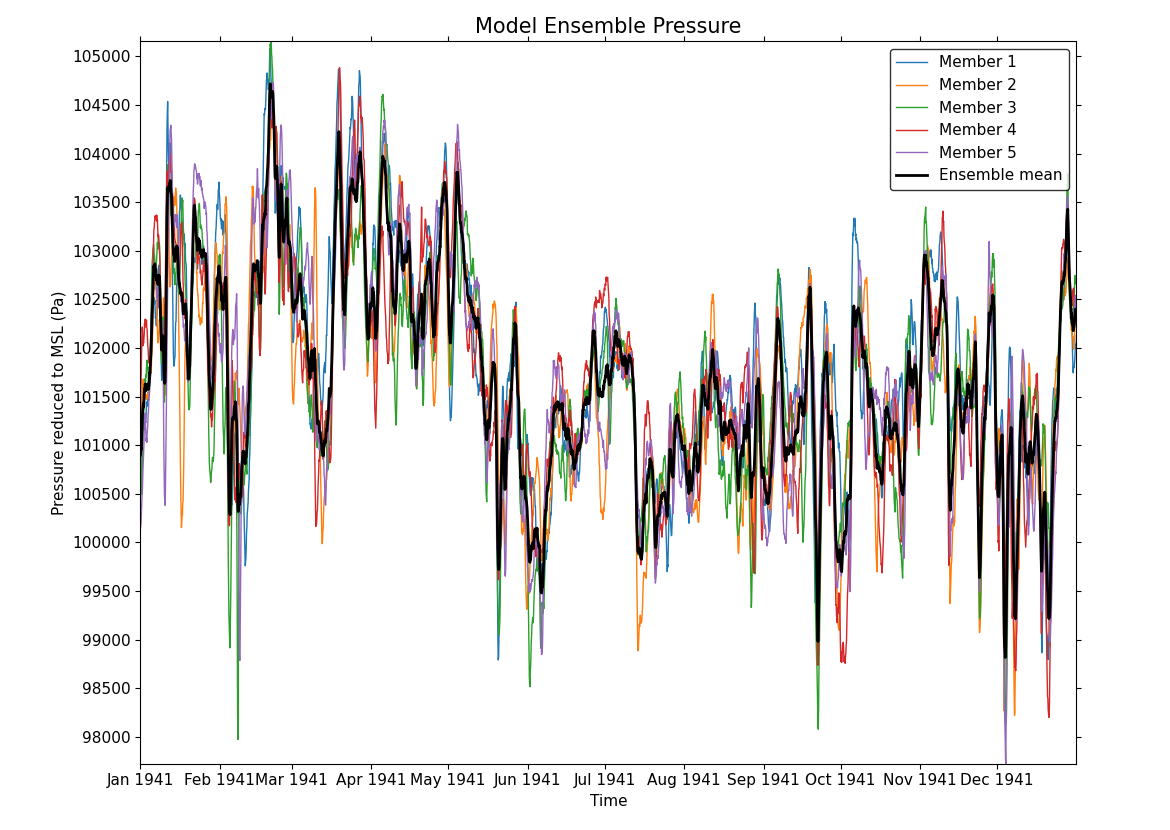
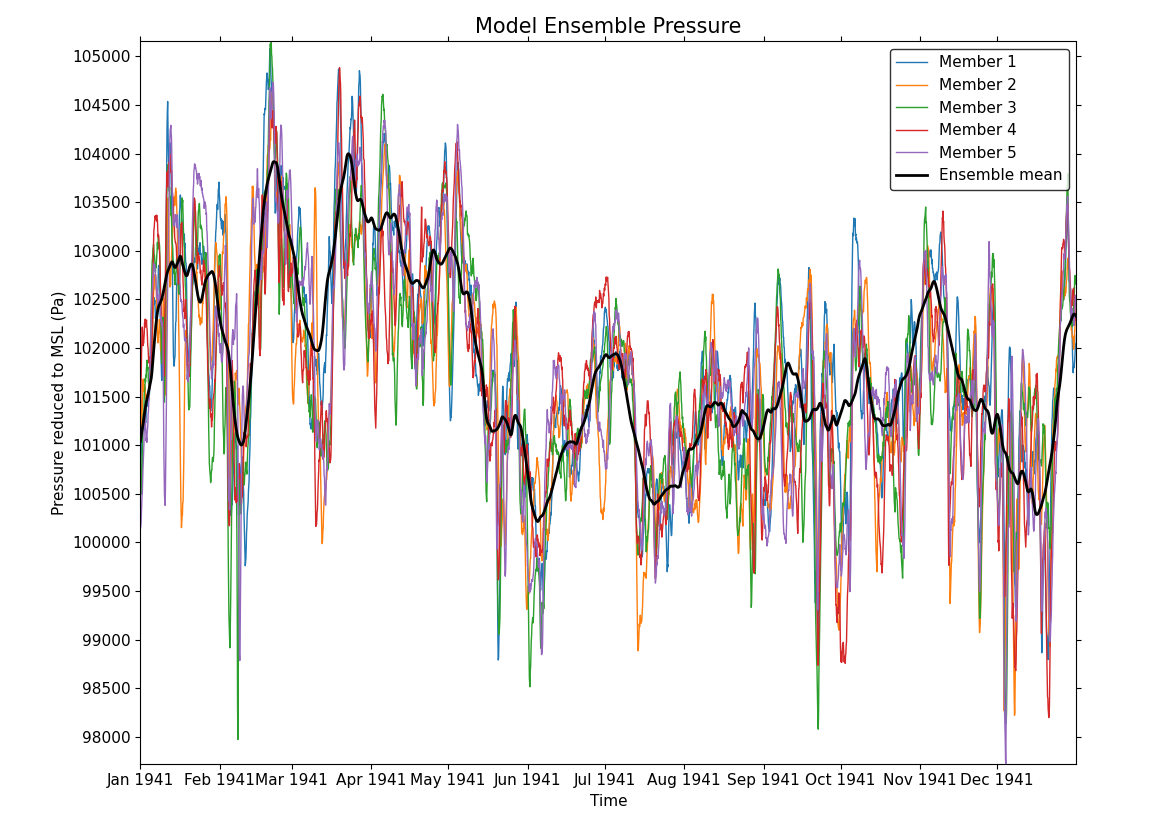
Updated ensemble plot files

Changed region(s): [[0.1231, 0.0904, 0.9231, 0.7831], [0.8923, 0.2711, 0.9231, 0.4518]]

diff --git a/docs/recipes/plot_7_recipe.html b/docs/recipes/plot_7_recipe.html
@@ -246,8 +246,8 @@ Auxiliary coords: id%realization(id%realization(5)) = [1, ..., 5]
  &#39;domainaxis3&#39;: &lt;CF DomainAxis: size(5)&gt;}
 </pre></div>
 </div>
-<p>6. Loop over the realizations in the ensemble using the <em>range</em> function and the <em>domain_axis</em> to determine the size of the realization dimension. For each realization, extract a subspace of the ensemble using the <em>subspace</em> method and the <code class="docutils literal notranslate"><span class="pre">'id%realization'</span></code> keyword argument along specific latitude and longitude and plot the realizations from the 4D field using <a class="reference external" href="http://ajheaps.github.io/cf-plot/lineplot.html">cfplot.lineplot</a>. The <em>squeeze</em> method removes any dimensions of size 1 from the field to produce a 2D field.
-The ensemble mean is plotted similarly by using the <em>collapse</em> method to take the mean along the <code class="docutils literal notranslate"><span class="pre">'realization'</span></code> dimension of the ensemble.</p>
+<p>6. Loop over the realizations in the ensemble using the <em>range</em> function and the <em>domain_axis</em> to determine the size of the realization dimension. For each realization, extract a subspace of the ensemble using the <em>subspace</em> method and the <code class="docutils literal notranslate"><span class="pre">'id%realization'</span></code> keyword argument along specific latitude and longitude and plot the realizations from the 4D field using <a class="reference external" href="http://ajheaps.github.io/cf-plot/lineplot.html">cfplot.lineplot</a>.
+A moving average of the ensemble along the time axis, with a window size of 90 (i.e., a 3-month moving average) is calculated using the <em>moving_window</em> method. The <code class="docutils literal notranslate"><span class="pre">mode='nearest'</span></code> parameter is used to specify that the padded data should be filled with the values of the nearest data point. The <em>squeeze</em> method removes any dimensions of size 1 from the field to produce a 2D field:</p>
 <div class="highlight-python notranslate"><div class="highlight"><pre><span></span><a href="https://ajheaps.github.io/cf-plot/gopen.html#cfplot.gopen" title="cfplot.gopen" class="sphx-glr-backref-module-cfplot sphx-glr-backref-type-py-function"><span class="n">cfp</span><span class="o">.</span><span class="n">gopen</span></a><span class="p">()</span>
 
 <span class="k">for</span> <a href="https://docs.python.org/3/library/functions.html#int" title="builtins.int" class="sphx-glr-backref-module-builtins sphx-glr-backref-type-py-class sphx-glr-backref-instance"><span class="n">realization</span></a> <span class="ow">in</span> <span class="nb">range</span><span class="p">(</span><span class="mi">1</span><span class="p">,</span> <a href="../method/cf.Field.domain_axis.html#cf.Field.domain_axis" title="cf.Field.domain_axis" class="sphx-glr-backref-module-cf sphx-glr-backref-type-py-method"><span class="n">ensemble</span><span class="o">.</span><span class="n">domain_axis</span></a><span class="p">(</span><span class="s1">&#39;id</span><span class="si">%r</span><span class="s1">ealization&#39;</span><span class="p">)</span><span class="o">.</span><span class="n">size</span> <span class="o">+</span> <span class="mi">1</span><span class="p">):</span>
@@ -257,14 +257,14 @@ The ensemble mean is plotted similarly by using the <em>collapse</em> method to 
         <span class="n">label</span><span class="o">=</span><span class="sa">f</span><span class="s1">&#39;Member </span><span class="si">{</span><a href="https://docs.python.org/3/library/functions.html#int" title="builtins.int" class="sphx-glr-backref-module-builtins sphx-glr-backref-type-py-class sphx-glr-backref-instance"><span class="n">realization</span></a><span class="si">}</span><span class="s1">&#39;</span><span class="p">,</span>
         <span class="n">linewidth</span><span class="o">=</span><span class="mf">1.0</span><span class="p">)</span>
 
-<a href="https://ajheaps.github.io/cf-plot/lineplot.html#cfplot.lineplot" title="cfplot.lineplot" class="sphx-glr-backref-module-cfplot sphx-glr-backref-type-py-function"><span class="n">cfp</span><span class="o">.</span><span class="n">lineplot</span></a><span class="p">(</span><a href="../method/cf.Field.collapse.html#cf.Field.collapse" title="cf.Field.collapse" class="sphx-glr-backref-module-cf sphx-glr-backref-type-py-method"><span class="n">ensemble</span><span class="o">.</span><span class="n">collapse</span></a><span class="p">(</span><span class="s1">&#39;mean&#39;</span><span class="p">,</span> <span class="s1">&#39;id</span><span class="si">%r</span><span class="s1">ealization&#39;</span><span class="p">)[:,</span> <span class="p">:,</span> <span class="mi">0</span><span class="p">,</span> <span class="mi">0</span><span class="p">]</span><span class="o">.</span><span class="n">squeeze</span><span class="p">(),</span>
+<a href="https://ajheaps.github.io/cf-plot/lineplot.html#cfplot.lineplot" title="cfplot.lineplot" class="sphx-glr-backref-module-cfplot sphx-glr-backref-type-py-function"><span class="n">cfp</span><span class="o">.</span><span class="n">lineplot</span></a><span class="p">(</span><a href="../method/cf.Field.moving_window.html#cf.Field.moving_window" title="cf.Field.moving_window" class="sphx-glr-backref-module-cf sphx-glr-backref-type-py-method"><span class="n">ensemble</span><span class="o">.</span><span class="n">moving_window</span></a><span class="p">(</span><span class="n">method</span><span class="o">=</span><span class="s1">&#39;mean&#39;</span><span class="p">,</span> <span class="n">window_size</span><span class="o">=</span><span class="mi">90</span><span class="p">,</span> <span class="n">axis</span><span class="o">=</span><span class="s1">&#39;T&#39;</span><span class="p">,</span> <span class="n">mode</span><span class="o">=</span><span class="s1">&#39;nearest&#39;</span><span class="p">)[</span><span class="mi">0</span><span class="p">,</span> <span class="p">:,</span> <span class="mi">0</span><span class="p">,</span> <span class="mi">0</span><span class="p">]</span><span class="o">.</span><span class="n">squeeze</span><span class="p">(),</span>
     <span class="n">label</span><span class="o">=</span><span class="s1">&#39;Ensemble mean&#39;</span><span class="p">,</span> <span class="n">linewidth</span><span class="o">=</span><span class="mf">2.0</span><span class="p">,</span> <span class="n">color</span><span class="o">=</span><span class="s1">&#39;black&#39;</span><span class="p">,</span>
     <span class="n">title</span><span class="o">=</span><span class="s1">&#39;Model Ensemble Pressure&#39;</span><span class="p">)</span>
 
 <a href="https://ajheaps.github.io/cf-plot/gclose.html#cfplot.gclose" title="cfplot.gclose" class="sphx-glr-backref-module-cfplot sphx-glr-backref-type-py-function"><span class="n">cfp</span><span class="o">.</span><span class="n">gclose</span></a><span class="p">()</span>
 </pre></div>
 </div>
-<img src="../_images/sphx_glr_plot_7_recipe_001.png" srcset="../_images/sphx_glr_plot_7_recipe_001.png" alt="Model Ensemble Pressure" class = "sphx-glr-single-img"/><p class="sphx-glr-timing"><strong>Total running time of the script:</strong> ( 0 minutes  44.351 seconds)</p>
+<img src="../_images/sphx_glr_plot_7_recipe_001.png" srcset="../_images/sphx_glr_plot_7_recipe_001.png" alt="Model Ensemble Pressure" class = "sphx-glr-single-img"/><p class="sphx-glr-timing"><strong>Total running time of the script:</strong> ( 0 minutes  14.899 seconds)</p>
 <div class="sphx-glr-footer sphx-glr-footer-example docutils container" id="sphx-glr-download-recipes-plot-7-recipe-py">
 <div class="sphx-glr-download sphx-glr-download-python docutils container">
 <p><a class="reference download internal" download="" href="../_downloads/plot_7_recipe.py"><code class="xref download docutils literal notranslate"><span class="pre">Download</span> <span class="pre">Python</span> <span class="pre">source</span> <span class="pre">code:</span> <span class="pre">plot_7_recipe.py</span></code></a></p>

diff --git a/docs/recipes/sg_execution_times.html b/docs/recipes/sg_execution_times.html
@@ -153,7 +153,7 @@ and by <a href="https://ncas.ac.uk/">NCAS</a>.
 <td><p>0.0 MB</p></td>
 </tr>
 <tr class="row-odd"><td><p><a class="reference internal" href="plot_7_recipe.html#sphx-glr-recipes-plot-7-recipe-py"><span class="std std-ref">Plotting members of a model ensemble</span></a> (<code class="docutils literal notranslate"><span class="pre">plot_7_recipe.py</span></code>)</p></td>
-<td><p>00:44.351</p></td>
+<td><p>00:14.899</p></td>
 <td><p>0.0 MB</p></td>
 </tr>
 </tbody>

diff --git a/docs/source/recipes/plot_6_recipe.py b/docs/source/recipes/plot_6_recipe.py
@@ -1,0 +1,70 @@
+"""
+Converting from rotated latitude-longitude to regular latitude-longitude
+========================================================================
+
+In this recipe, we will be regridding from a rotated latitude-longitude source domain to a regular latitude-longitude destination domain.
+"""
+
+# %%
+# 1. Import cf-python, cf-plot and numpy:
+
+import cfplot as cfp
+import numpy as np
+
+import cf
+
+# %%
+# 2. Read the field constructs using read function:
+
+f = cf.read("~/recipes/au952a.pd20510414.pp")
+print(f)
+
+# %%
+# 3. Select the field by index and print its description to show properties of all constructs:
+
+gust = f[0]
+gust.dump()
+
+# %%
+# 4. Access the time coordinate of the gust field and retrieve the datetime values of the time coordinate:
+
+print(gust.coordinate("time").datetime_array)
+
+# %%
+# 5. Create a new instance of the `cf.dt` class with a specified year, month, day, hour, minute, second and microsecond. Then store the result in the variable ``test``:
+test = cf.dt(2051, 4, 14, 1, 30, 0, 0)
+print(test)
+
+# %%
+# 6. Plot the wind gust by creating a subspace for the specified variable ``test`` using `cfplot.con <http://ajheaps.github.io/cf-plot/con.html>`_. Here `cfplot.mapset <http://ajheaps.github.io/cf-plot/mapset.html>`_ is used to set the mapping parameters like setting the map resolution to 50m:
+cfp.mapset(resolution="50m")
+cfp.con(gust.subspace(T=test), lines=False)
+
+# %%
+# 7. To see the rotated pole data on the native grid, the above steps are repeated and projection is set to rotated in `cfplot.mapset <http://ajheaps.github.io/cf-plot/mapset.html>`_:
+cfp.mapset(resolution="50m", proj="rotated")
+cfp.con(gust.subspace(T=test), lines=False)
+
+# %%
+# 8. Create dimension coordinates for the destination grid with the latitude and longitude values for Europe. `np.linspace <https://numpy.org/doc/stable/reference/generated/numpy.linspace.html>`_ generates evenly spaced values between the specified latitude and longitude range. Bounds of the target longitude and target latitude are created and spherical regridding is then performed on the gust variable by passing the target latitude and target longitude as arguments. The method also takes an argument ``'linear'`` which specifies the type of regridding method to use. The description of the ``regridded_data`` is finally printed to show properties of all its constructs:
+
+target_latitude = cf.DimensionCoordinate(
+    data=cf.Data(np.linspace(34, 72, num=10), "degrees_north")
+)
+target_longitude = cf.DimensionCoordinate(
+    data=cf.Data(np.linspace(-25, 45, num=10), "degrees_east")
+)
+
+lon_bounds = target_longitude.create_bounds()
+lat_bounds = target_latitude.create_bounds()
+
+target_longitude.set_bounds(lon_bounds)
+target_latitude.set_bounds(lat_bounds)
+
+regridded_data = gust.regrids((target_latitude, target_longitude), "linear")
+regridded_data.dump()
+
+# %%
+# 9. Step 6 is similarly repeated for the ``regridded_data`` to plot the wind gust on a regular latitude-longitude domain:
+cfp.mapset(resolution="50m")
+cfp.con(regridded_data.subspace(T=test), lines=False)

diff --git a/docs/source/recipes/plot_7_recipe.py b/docs/source/recipes/plot_7_recipe.py
@@ -1,6 +1,6 @@
 """
 Plotting members of a model ensemble
-====================
+====================================
 
 In this recipe, we will plot the members of a model ensemble.
 """
@@ -35,9 +35,8 @@ print(ensemble)
 print(ensemble.constructs)
 
 # %%
-# 6. Loop over the realizations in the ensemble using the *range* function and the *domain_axis* to determine the size of the realization dimension. For each realization, extract a subspace of the ensemble using the *subspace* method and the ``'id%realization'`` keyword argument along specific latitude and longitude and plot the realizations from the 4D field using `cfplot.lineplot <http://ajheaps.github.io/cf-plot/lineplot.html>`_. The *squeeze* method removes any dimensions of size 1 from the field to produce a 2D field.
-# The ensemble mean is plotted similarly by using the *collapse* method to take the mean along the ``'realization'`` dimension of the ensemble.
-
+# 6. Loop over the realizations in the ensemble using the *range* function and the *domain_axis* to determine the size of the realization dimension. For each realization, extract a subspace of the ensemble using the *subspace* method and the ``'id%realization'`` keyword argument along specific latitude and longitude and plot the realizations from the 4D field using `cfplot.lineplot <http://ajheaps.github.io/cf-plot/lineplot.html>`_. 
+# A moving average of the ensemble along the time axis, with a window size of 90 (i.e., a 3-month moving average) is calculated using the *moving_window* method. The ``mode='nearest'`` parameter is used to specify that the padded data should be filled with the values of the nearest data point. The *squeeze* method removes any dimensions of size 1 from the field to produce a 2D field:
 
 cfp.gopen()
 
@@ -48,7 +47,7 @@ for realization in range(1, ensemble.domain_axis('id%realization').size + 1):
         label=f'Member {realization}',
         linewidth=1.0)
 
-cfp.lineplot(ensemble.collapse('mean', 'id%realization')[:, :, 0, 0].squeeze(),
+cfp.lineplot(ensemble.moving_window(method='mean', window_size=90, axis='T', mode='nearest')[0, :, 0, 0].squeeze(),
     label='Ensemble mean', linewidth=2.0, color='black',
     title='Model Ensemble Pressure')
     

diff --git a/docs/_downloads/plot_7_recipe.py b/docs/_downloads/plot_7_recipe.py
@@ -35,9 +35,8 @@ print(ensemble)
 print(ensemble.constructs)
 
 # %%
-# 6. Loop over the realizations in the ensemble using the *range* function and the *domain_axis* to determine the size of the realization dimension. For each realization, extract a subspace of the ensemble using the *subspace* method and the ``'id%realization'`` keyword argument along specific latitude and longitude and plot the realizations from the 4D field using `cfplot.lineplot <http://ajheaps.github.io/cf-plot/lineplot.html>`_. The *squeeze* method removes any dimensions of size 1 from the field to produce a 2D field.
-# The ensemble mean is plotted similarly by using the *collapse* method to take the mean along the ``'realization'`` dimension of the ensemble.
-
+# 6. Loop over the realizations in the ensemble using the *range* function and the *domain_axis* to determine the size of the realization dimension. For each realization, extract a subspace of the ensemble using the *subspace* method and the ``'id%realization'`` keyword argument along specific latitude and longitude and plot the realizations from the 4D field using `cfplot.lineplot <http://ajheaps.github.io/cf-plot/lineplot.html>`_. 
+# A moving average of the ensemble along the time axis, with a window size of 90 (i.e., a 3-month moving average) is calculated using the *moving_window* method. The ``mode='nearest'`` parameter is used to specify that the padded data should be filled with the values of the nearest data point. The *squeeze* method removes any dimensions of size 1 from the field to produce a 2D field:
 
 cfp.gopen()
 
@@ -48,7 +47,7 @@ for realization in range(1, ensemble.domain_axis('id%realization').size + 1):
         label=f'Member {realization}',
         linewidth=1.0)
 
-cfp.lineplot(ensemble.collapse('mean', 'id%realization')[:, :, 0, 0].squeeze(),
+cfp.lineplot(ensemble.moving_window(method='mean', window_size=90, axis='T', mode='nearest')[0, :, 0, 0].squeeze(),
     label='Ensemble mean', linewidth=2.0, color='black',
     title='Model Ensemble Pressure')
     
